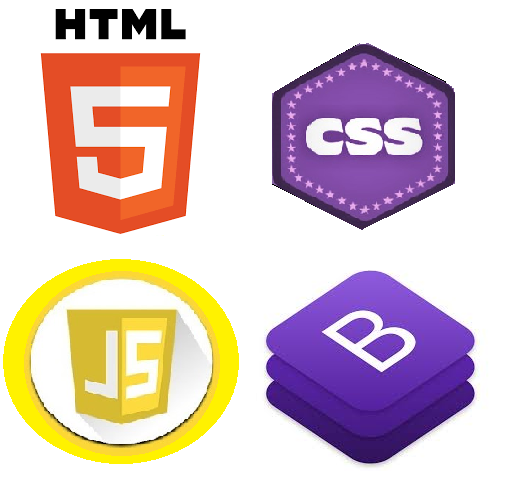
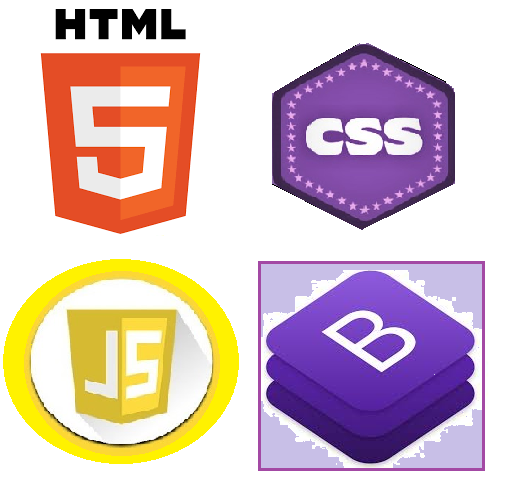
add coordinates of rect

Changed region(s): [[0.499, 0.5236, 0.9669, 0.9856]]

diff --git a/index/prac-5.html b/index/prac-5.html
@@ -42,7 +42,7 @@
             <area shape="poly" coords="40,53,202,54,184,215,121,236,56,215" href="../index/HTML.html">
             <area shape="poly" coords="273,92,364,41,455,90,460,183,366,231,271,184" href="../index/CSS.html">
             <area shape="circle" coords="120,364,118,364" href="../index/JS.html">
-            
+            <area shape="rect" coords="258,262,483,482,467,258,768" href="../index/BStrap.html">
 
         </map>
         
